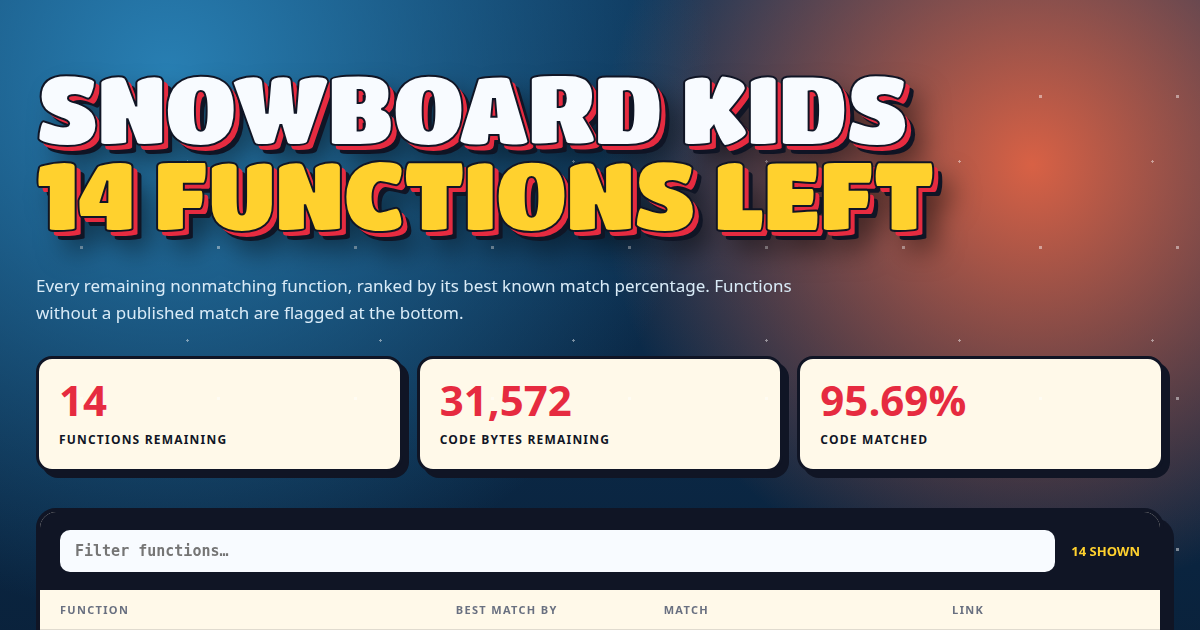
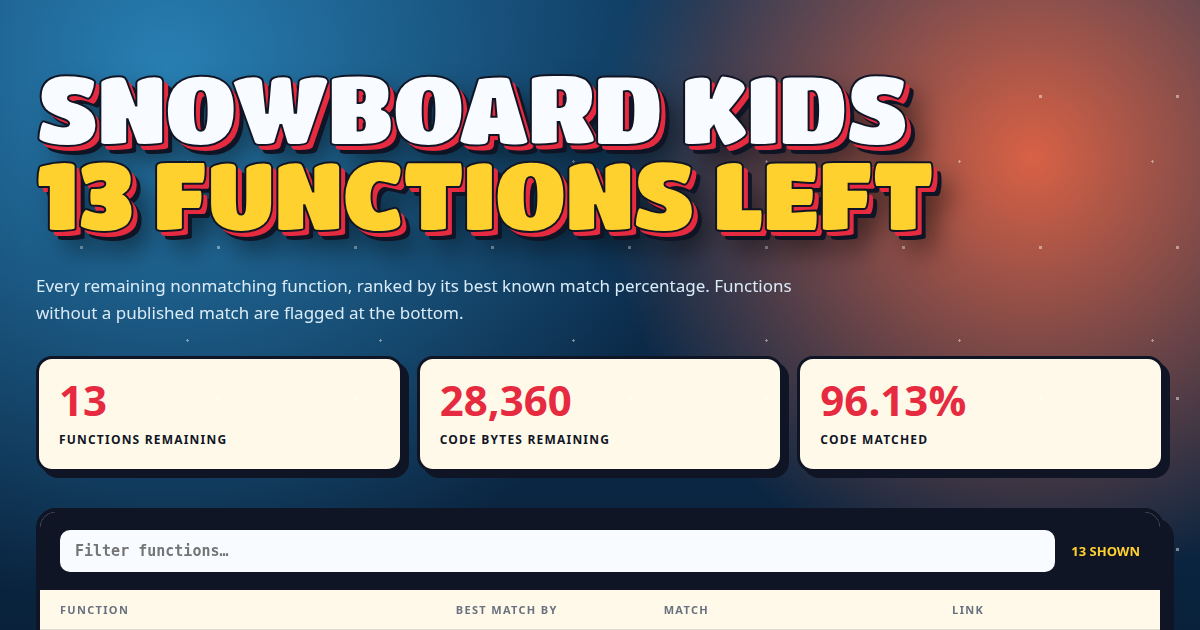
update leaderboard

diff --git a/docs/index.html b/docs/index.html
@@ -3,9 +3,9 @@
   <head>
     <meta charset="utf-8" />
     <meta name="viewport" content="width=device-width, initial-scale=1" />
-    <title>Snowboard Kids — 14 Functions Left</title>
+    <title>Snowboard Kids — 13 Functions Left</title>
     <meta name="description" content="Snowboard Kids matching decompilation progress and remaining function report." />
-    <meta property="og:title" content="Snowboard Kids — 14 Functions Left" />
+    <meta property="og:title" content="Snowboard Kids — 13 Functions Left" />
     <meta property="og:description" content="Best known match percentages for the remaining functions." />
     <meta property="og:type" content="website" />
     <meta property="og:image" content="og.png" />
@@ -199,32 +199,23 @@
   </head>
   <body>
     <header>
-      <h1>Snowboard Kids<br /><em>14 functions left</em></h1>
+      <h1>Snowboard Kids<br /><em>13 functions left</em></h1>
       <p class="intro">Every remaining nonmatching function, ranked by its best known match percentage. Functions without a published match are flagged at the bottom.</p>
     </header>
 
     <section class="stats" aria-label="Project summary">
-      <div class="stat"><strong>14</strong><span>functions remaining</span></div>
-      <div class="stat"><strong>31,572</strong><span>code bytes remaining</span></div>
-      <div class="stat"><strong>95.69%</strong><span>code matched</span></div>
+      <div class="stat"><strong>13</strong><span>functions remaining</span></div>
+      <div class="stat"><strong>28,360</strong><span>code bytes remaining</span></div>
+      <div class="stat"><strong>96.13%</strong><span>code matched</span></div>
     </section>
 
     <main>
       <section class="panel">
         <div class="toolbar">
           <label><input id="search" type="search" placeholder="Filter functions…" autocomplete="off" /></label>
-          <span id="visible-count">14 shown</span>
+          <span id="visible-count">13 shown</span>
         </div>
         <div class="table-head"><span>Function</span><span>Best match by</span><span>Match</span><span>Link</span></div>
-        <article class="function-row" data-name="saveracerecordreplaydata" data-score="99.981320">
-          <div class="function-cell">
-            <span class="function-name">saveRaceRecordReplayData</span>
-            <span class="function-size">3,212 bytes</span>
-          </div>
-          <div class="source-cell">Bl00D4NGEL</div>
-          <div class="score-cell"><div class="score-track" aria-label="Match 99.981%"><span style="width:99.981%"></span></div><strong>99.981%</strong></div>
-          <div class="actions"><a class="action" href="https://decomp.me/scratch/JJAW1" target="_blank" rel="noopener">decomp.me ↗</a></div>
-        </article>
         <article class="function-row" data-name="updatecharacterselectmenu" data-score="99.475676">
           <div class="function-cell">
             <span class="function-name">updateCharacterSelectMenu</span>
@@ -346,7 +337,7 @@
       </section>
     </main>
 
-    <footer>Generated 2026-08-17 21:42 UTC · scores are snapshots and may have moved since generation</footer>
+    <footer>Generated 2026-08-18 14:31 UTC · scores are snapshots and may have moved since generation</footer>
     <script>
       const search = document.querySelector("#search");
       const rows = [...document.querySelectorAll(".function-row")];
